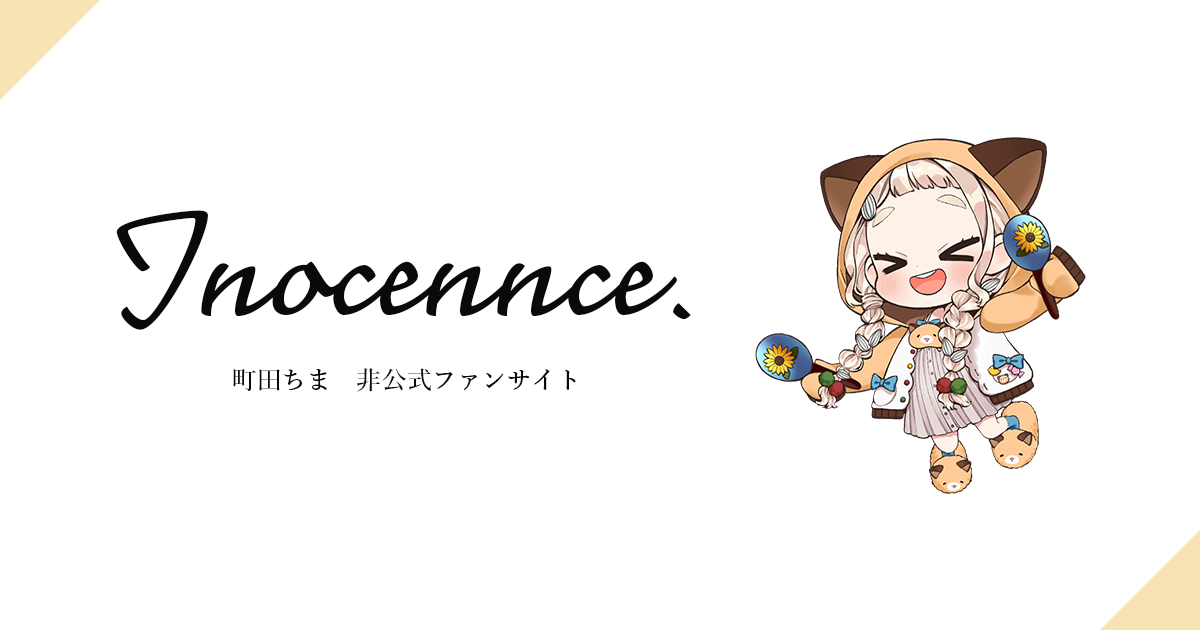
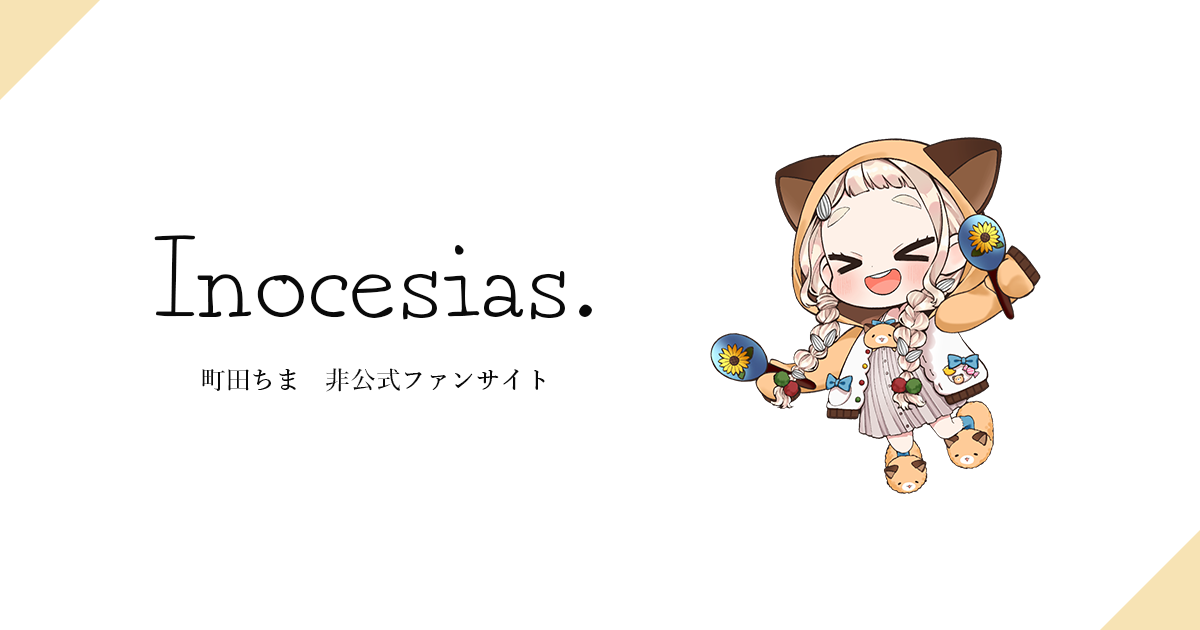
タイトルを変更。それに伴い、タイトルロゴやOGPカードを差し替え。

Changed region(s): [[0.5858, 0.2111, 0.925, 0.7841], [0.0925, 0.3317, 0.5858, 0.5429], [0.1542, 0.573, 0.4625, 0.6333]]

diff --git a/archive.html b/archive.html
@@ -90,6 +90,92 @@
         <li>町田ちま公式チャンネル（<a href="https://www.youtube.com/channel/UCo7TRj3cS-f_1D9ZDmuTsjw">町田ちま【にじさんじ】</a> ）での生配信のみ掲載しています。コラボ配信の相手側チャンネルでのアーカイブなどは掲載していませんのでご了承ください。</li>
       </ul>
       <div class="main">
+        <div class="archive_content songs">
+          <h3 class="icon">【歌枠】なんで歌うのこんなに楽しいんだろうな？Singing Stream【町田ちま/にじさんじ】</h3>
+          <div class="youtube_content">
+            <iframe class="fastyt" data-img="maxresdefault" width="613" height="344.5" data-src="https://www.youtube.com/embed/QC1Ae5OGKhE" frameborder="0"
+              allow="accelerometer; autoplay; clipboard-write; encrypted-media; gyroscope; picture-in-picture" allowfullscreen></iframe>
+          </div>
+          <details>
+            <summary>セットリスト</summary>
+            <table>
+              <tr>
+                <th>曲名</th>
+                <th>アーティスト</th>
+                <th>タイムスタンプ</th>
+                <th>原曲リンク</th>
+              </tr>
+              <tr>
+                <td>テルーの唄</td>
+                <td>手嶌葵</td>
+                <td>3:57</td>
+                <td></td>
+              </tr>
+              <tr>
+                <td>ドラえもん</td>
+                <td>星野源</td>
+                <td>10:21</td>
+                <td><a href="https://youtu.be/ypRTzt1KrF8" target="_blank" rel="noopener noreferrer">link</a></td>
+              </tr>
+              <tr>
+                <td>虹</td>
+                <td>菅田将暉</td>
+                <td>15:57</td>
+                <td><a href="https://youtu.be/hkBbUf4oGfA" target="_blank" rel="noopener noreferrer">link</a></td>
+              </tr>
+              <tr>
+                <td>宿命</td>
+                <td>Official髭男dism</td>
+                <td>21:57</td>
+                <td><a href="https://youtu.be/-kgOFJG881I" target="_blank" rel="noopener noreferrer">link</a></td>
+              </tr>
+              <tr>
+                <td>プロローグ</td>
+                <td>Uru</td>
+                <td>27:42</td>
+                <td><a href="https://youtu.be/392676Cbv28" target="_blank" rel="noopener noreferrer">link</a></td>
+              </tr>
+              <tr>
+                <td>Violet Snow</td>
+                <td>結城アイラ</td>
+                <td>33:45</td>
+                <td><a href="https://youtu.be/ZeSISQ9v4uc" target="_blank" rel="noopener noreferrer">link</a></td>
+              </tr>
+              <tr>
+                <td>secret base〜君がくれたもの〜</td>
+                <td>ZONE</td>
+                <td>38:35</td>
+                <td></td>
+              </tr>
+              <tr>
+                <td>タバコ</td>
+                <td>コレサワ</td>
+                <td>45:26</td>
+                <td><a href="https://youtu.be/7B_PVsPvcg0" target="_blank" rel="noopener noreferrer">link</a></td>
+              </tr>
+              <tr>
+                <td>アンコール</td>
+                <td>YOASOBI</td>
+                <td>53:19</td>
+                <td><a href="https://youtu.be/vcGbefQBvJ4" target="_blank" rel="noopener noreferrer">link</a></td>
+                </td>
+              </tr>
+              <tr>
+                <td>雨とカプチーノ</td>
+                <td>ヨルシカ</td>
+                <td>59:40</td>
+                <td><a href="https://youtu.be/PWbRleMGagU" target="_blank" rel="noopener noreferrer">link</a></td>
+              </tr>
+            </table>
+          </details>
+        </div>
+        <div class="archive_content minecraft">
+          <h3 class="icon">【Minecraft】ラピュタ制作の進捗ダメです🥳マイクラ生活③日目【町田ちま/にじさんじ】</h3>
+          <div class="youtube_content">
+            <iframe class="fastyt" data-img="maxresdefault" width="613" height="344.5" data-src="https://www.youtube.com/embed/NEpxkDPVEJU" frameborder="0"
+              allow="accelerometer; autoplay; clipboard-write; encrypted-media; gyroscope; picture-in-picture" allowfullscreen></iframe>
+          </div>
+        </div>
         <div class="archive_content minecraft">
           <h3 class="icon">【Minecraft】ラピュタいるもん！作るもん！マイクラ生活②日目【町田ちま/にじさんじ】</h3>
           <div class="youtube_content">

diff --git a/index.html b/index.html
@@ -3,12 +3,12 @@
 
 <head prefix="og: http://ogp.me/ns# fb: http://ogp.me/ns/fb# article: http://ogp.me/ns/article#">
   <meta charset="utf-8">
-  <title>Innocence. - 町田ちま 非公式ファンサイト</title>
-  <meta property="og:title" content="Innocence. - 町田ちま 非公式ファンサイト" />
+  <title>Inocesias. - 町田ちま 非公式ファンサイト</title>
+  <meta property="og:title" content="Inocesias. - 町田ちま 非公式ファンサイト" />
   <meta property="og:type" content="website" />
   <meta property="og:url" content="https://sharp-pasteur-409b32.netlify.app/" />
   <meta property="og:image" content="https://sharp-pasteur-409b32.netlify.app/img/ogp_top.png" />
-  <meta property="og:site_name" content="Innocence. - 町田ちま 非公式ファンサイト" />
+  <meta property="og:site_name" content="Inocesias. - 町田ちま 非公式ファンサイト" />
   <meta property="og:description" content="にじさんじプロジェクト所属バーチャルライバー町田ちまの非公式ファンサイトです。" />
   <meta name="twitter:card" content="summary_large_image" />
   <link rel="preconnect" href="https://fonts.gstatic.com">
@@ -55,7 +55,7 @@
     <div id="loading_wrapper">
       <div class="logo">
         <a href="index.html">
-          <img src="img/logo.png" alt="Innocence.">
+          <img src="img/logo.png" alt="Inocesias.">
         </a>
       </div>
       <nav>

diff --git a/songs.html b/songs.html
@@ -1,0 +1,39 @@
+<!DOCTYPE html>
+<html>
+  <head>
+    <meta charset="utf-8">
+    <title>サンプルページ</title>
+    <link rel="preconnect" href="https://fonts.gstatic.com">
+    <link href="https://fonts.googleapis.com/css2?family=Darker+Grotesque:wght@300&display=swap" rel="stylesheet">
+    <link rel="stylesheet" href="css/style.css">
+  </head>
+  <body id="songs">
+    <!-- header開始 -->
+    <header>
+      <div class="logo">
+        <a href="index.html">
+          <img src="img/logo.png" alt="Inocesias.">
+        </a>
+      </div>
+      <nav>
+        <ul class="global_nav">
+          <li><a href="profile.html">Profile</a></li>
+          <li><a href="archive.html">Stream Archive</a></li>
+          <li><a href="songs.html">Songs</a></li>
+          <li><a href="information.html">Information</a></li>
+          <li><a href="about.html">About</a></li>
+        </ul>
+      </nav>
+    </header>
+    <div id="wrap">
+      <div class="content">
+        <div id="page_top"><a href="wrap"></a></div>
+        <h2>歌ってみた　投稿動画</h2>
+        <p>これまでに投稿された歌ってみた</p>
+      </div>
+    </div>
+    <footer>
+      <small>Created, Designed by FU.<br>
+    </footer>
+  </body>
+</html>

diff --git a/css/style.css b/css/style.css
@@ -38,7 +38,7 @@ header {
 
 .logo {
   float: left;
-  margin-top: 55px;
+  margin-top: 60px;
   margin-left: 10px;
 }
 
@@ -412,6 +412,20 @@ select, option{
 .yt_play:hover::before { /* YouTubeアイコン */
   cursor: pointer;
   background-image:url(../img/yt_icon_rgb.png);
+}
+#songs {
+  background-image: url(../img/bg.png);
+  background-repeat: no-repeat;
+  background-position: center top;
+  background-attachment: fixed;
+  background-size: 100% auto;
+}
+
+#songs h2 {
+  font-weight: 150;
+  padding-top: 50px;
+  margin-bottom: 20px;
+  border-bottom: 1px solid #B5A98F;
 }
 
 #about {
